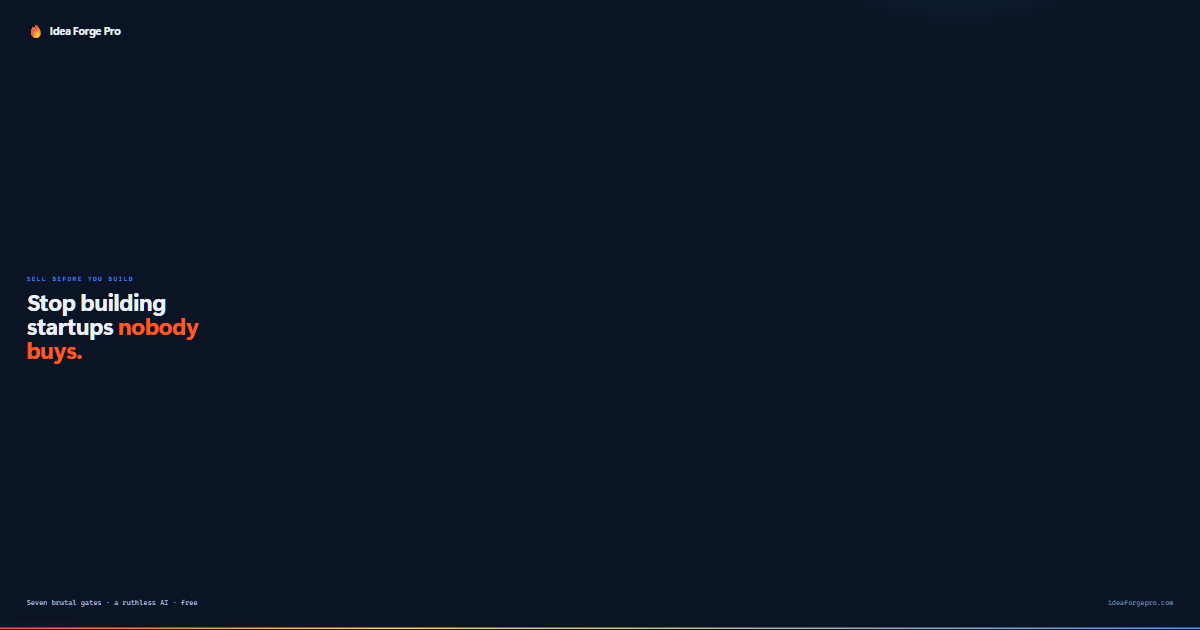
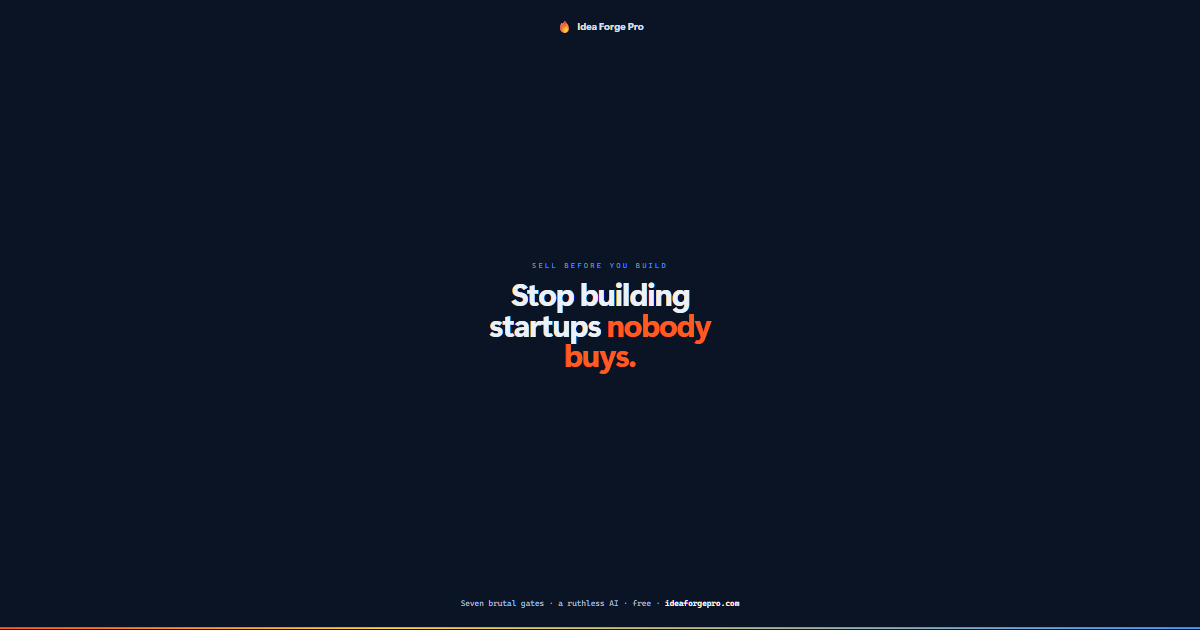
Redesign OG card: centered, bold, frame-filling; version image URL

diff --git a/index.html b/index.html
@@ -13,7 +13,7 @@
 <meta property="og:site_name" content="Idea Forge Pro">
 <meta property="og:title" content="Idea Forge Pro — Sell Before You Build">
 <meta property="og:description" content="Stress-test a startup idea through seven brutal gates until it's sellable with no product built. A ruthless AI skeptic, on your own API key.">
-<meta property="og:image" content="https://ideaforgepro.com/og-image.png">
+<meta property="og:image" content="https://ideaforgepro.com/og-image.png?2">
 <meta property="og:image:width" content="1200">
 <meta property="og:image:height" content="630">
 <meta property="og:image:alt" content="Idea Forge Pro — Stop building startups nobody buys.">
@@ -21,7 +21,7 @@
 <meta name="twitter:card" content="summary_large_image">
 <meta name="twitter:title" content="Idea Forge Pro — Sell Before You Build">
 <meta name="twitter:description" content="Stress-test a startup idea through seven brutal gates until it's sellable with no product built. Free, in your browser.">
-<meta name="twitter:image" content="https://ideaforgepro.com/og-image.png">
+<meta name="twitter:image" content="https://ideaforgepro.com/og-image.png?2">
 <style>
   /* ===== Design tokens — one source for every visual constant ===== */
   :root{